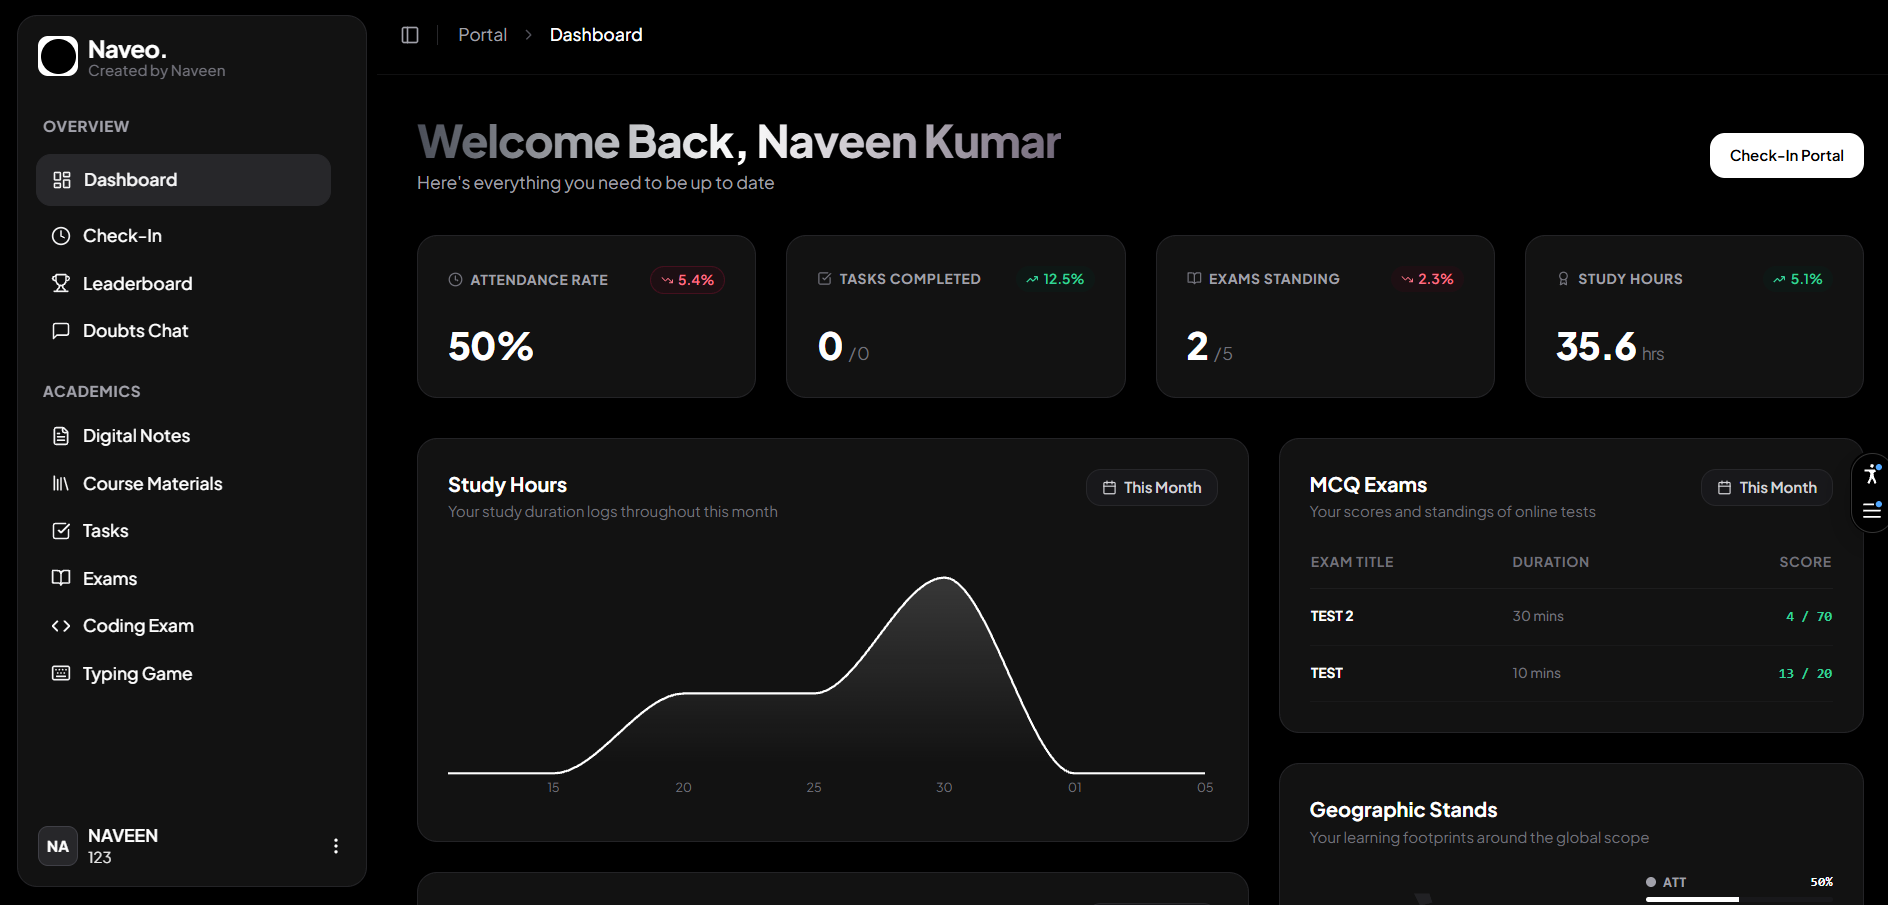
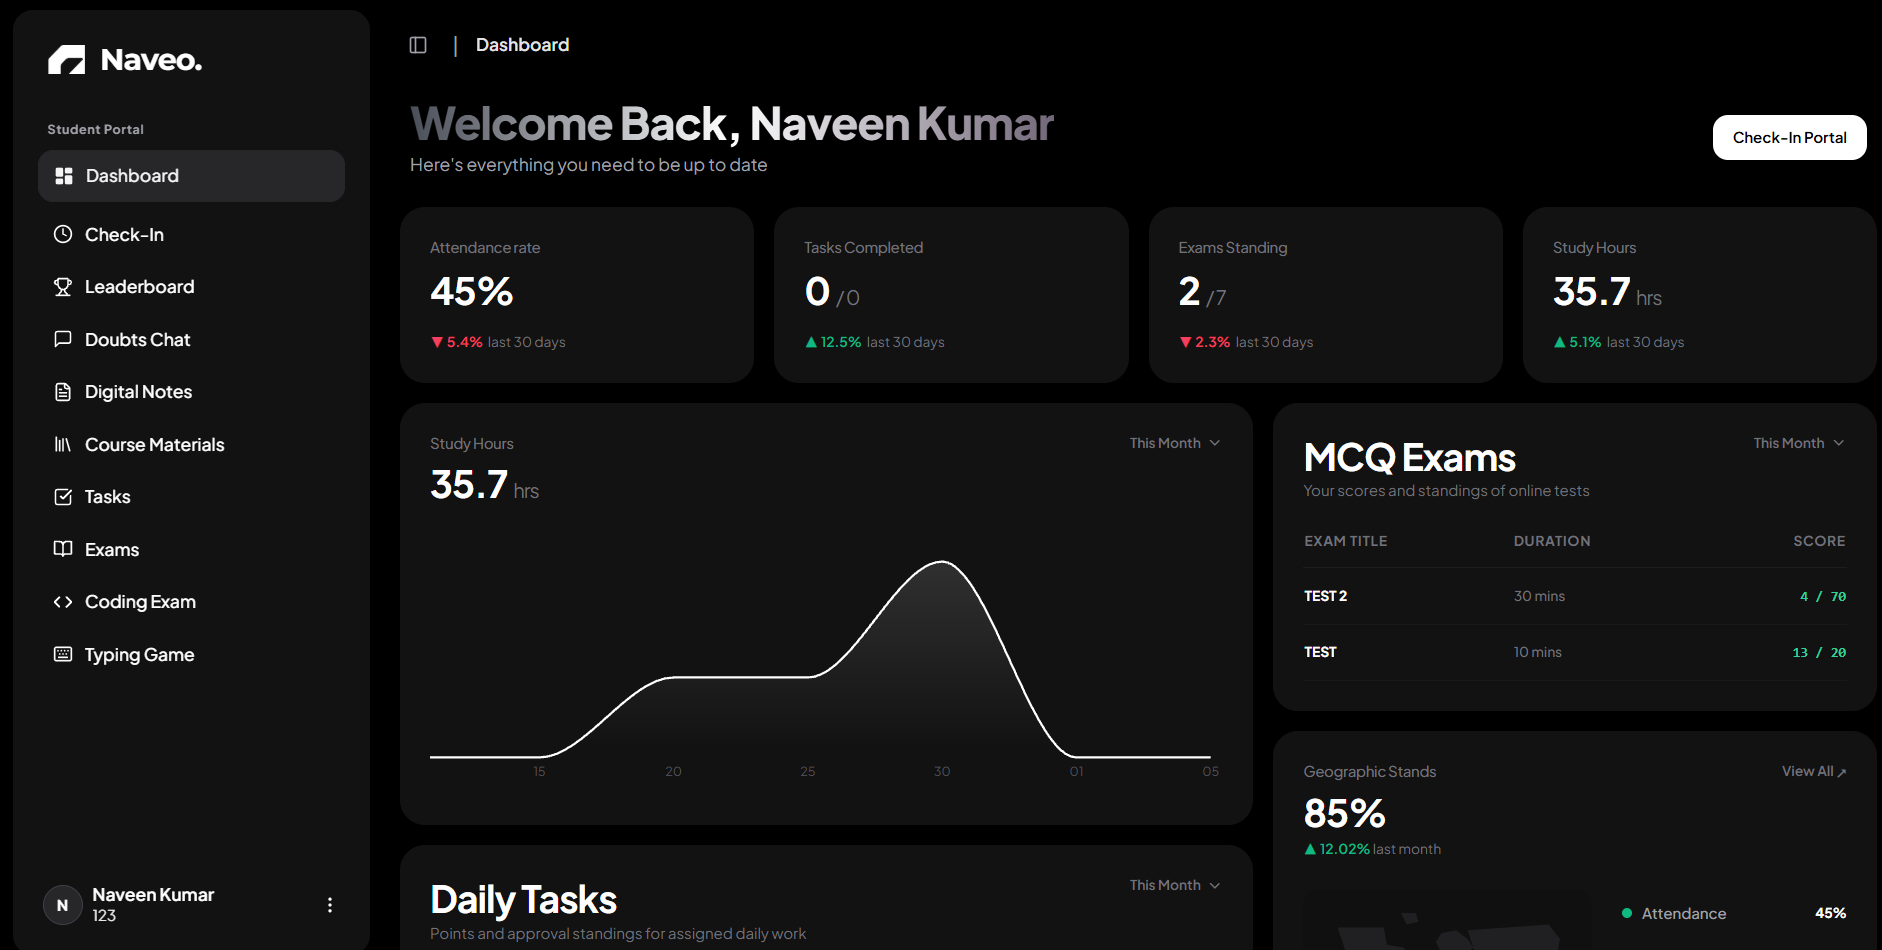
update

diff --git a/src/components/student-sidebar.tsx b/src/components/student-sidebar.tsx
@@ -15,6 +15,7 @@ import {
   SidebarContent,
   SidebarFooter,
   SidebarGroup,
+  SidebarGroupLabel,
   SidebarHeader,
   SidebarMenu,
   SidebarMenuButton,
@@ -24,8 +25,6 @@ import {
 import {
   BookOpen,
   CheckSquare,
-  ChevronLeft,
-  ChevronRight,
   Clock,
   Code,
   FileText,
@@ -138,9 +137,9 @@ export function StudentSidebar({ student, ...props }: StudentSidebarProps & Reac
         <SidebarMenu>
           <SidebarMenuItem>
             <SidebarMenuButton size="lg" asChild className="w-full">
-              <Link href="/student/dashboard" className="flex items-center gap-0 pl-3">
+              <Link href="/student/dashboard" className="flex items-center gap-2 pl-3">
                 <Image src="/nk-logo.png" alt="Logo" width={30} height={22} className="object-contain shrink-0" />
-                <div className="animate-slide-name flex items-center">
+                <div className="animate-slide-name flex flex-col items-start gap-0.5 leading-none">
                   <span className={`${logoFont.className} font-bold text-[1.5rem] text-white tracking-tight leading-none`}>Naveo.</span>
                 </div>
               </Link>
@@ -151,6 +150,9 @@ export function StudentSidebar({ student, ...props }: StudentSidebarProps & Reac
 
       <SidebarContent>
         <SidebarGroup>
+          <SidebarGroupLabel className="text-zinc-400 font-bold px-3 py-2 tracking-wider text-[10px] select-none">
+            Student Portal
+          </SidebarGroupLabel>
           <SidebarMenu className="gap-2.5 px-1">
             {data.navItems.map((item) => {
               const isActive = mounted && pathname === item.url
